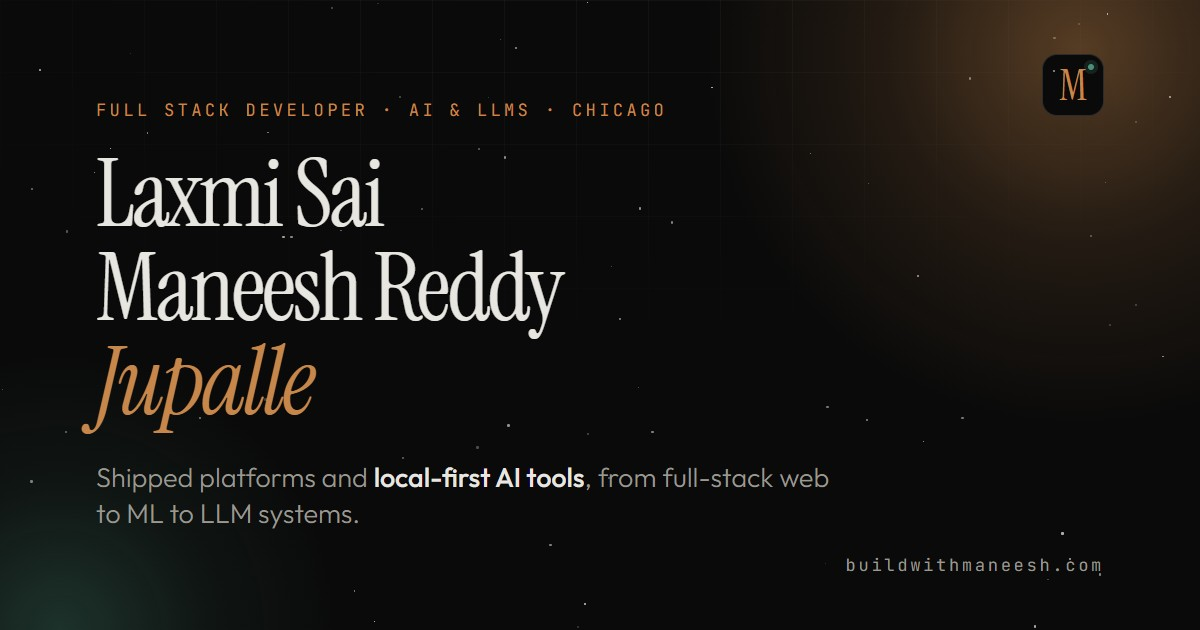
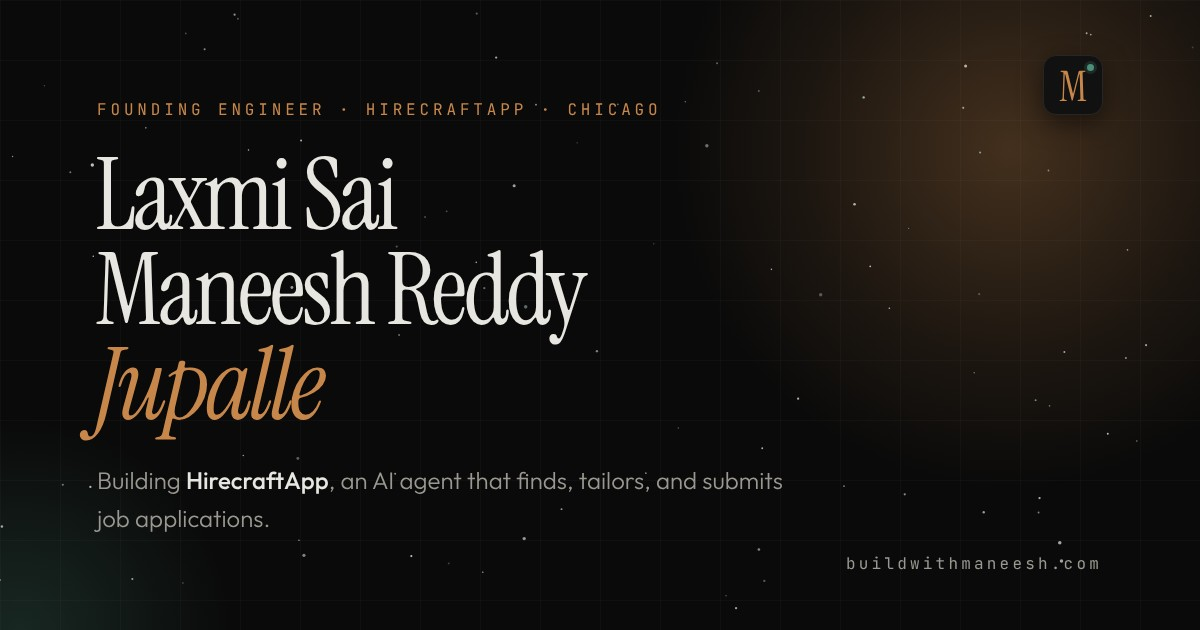
Add HirecraftApp and update bio for founding engineer role
The site still pitched me as a full stack developer open to full-time
roles. I now build HirecraftApp as its founding engineer, so the hero,
about, experience, contact, and share metadata say that instead.

- Experience: new HirecraftApp entry at the top of the timeline, with
  bullets drawn from what the product does on hirecraftapp.com.
- Hero: status pill and intro lead with HirecraftApp; a "Founding
  engineer" credential replaces vExpert, which stays under Recognition.
- About: rewritten around HirecraftApp, then UIC and VMware; adds a
  "Building" fact.
- Skills: "Agents and automation" row linking HirecraftApp, ProofPilot,
  and Sentinel MCP.
- Contact, command palette, mobile nav count, JSON-LD jobTitle and
  worksFor, title and og/twitter tags all updated.
- Re-render og-image.jpg in the same layout with the new title, and
  version its URL so link previews refetch it.
- UIC GenAI bullets move to past tense now that the role has ended.

Claude-Session: https://claude.ai/code/session_012bZnZHevDHwq4bZLdTsvEc

diff --git a/index.html b/index.html
@@ -3,22 +3,22 @@
 <head>
   <meta charset="UTF-8" />
   <meta name="viewport" content="width=device-width, initial-scale=1" />
-  <title>Laxmi Sai Maneesh Reddy Jupalle – Full Stack Developer</title>
-  <meta name="description" content="Full Stack Developer building web products, ML systems, and LLM pipelines. MS CS Graduate · UIC · Ex-VMware · Chicago." />
+  <title>Laxmi Sai Maneesh Reddy Jupalle – Founding Engineer at HirecraftApp</title>
+  <meta name="description" content="Founding engineer at HirecraftApp, an AI agent that finds, tailors, and submits job applications. Full stack across web products, ML systems, and LLM pipelines. MS CS · UIC · Ex-VMware · Chicago." />
   <link rel="canonical" href="https://buildwithmaneesh.com/" />
   <meta property="og:type" content="website" />
   <meta property="og:url" content="https://buildwithmaneesh.com/" />
   <meta property="og:site_name" content="buildwithmaneesh.com" />
-  <meta property="og:title" content="Laxmi Sai Maneesh Reddy Jupalle – Full Stack Developer" />
-  <meta property="og:description" content="Full Stack Developer building web products, ML systems, and LLM pipelines. MS CS · UIC · Ex-VMware · Chicago." />
-  <meta property="og:image" content="https://buildwithmaneesh.com/assets/og-image.jpg" />
+  <meta property="og:title" content="Laxmi Sai Maneesh Reddy Jupalle – Founding Engineer at HirecraftApp" />
+  <meta property="og:description" content="Founding engineer at HirecraftApp, an AI agent that finds, tailors, and submits job applications. MS CS · UIC · Ex-VMware · Chicago." />
+  <meta property="og:image" content="https://buildwithmaneesh.com/assets/og-image.jpg?v=2" />
   <meta property="og:image:width" content="1200" />
   <meta property="og:image:height" content="630" />
-  <meta property="og:image:alt" content="Laxmi Sai Maneesh Reddy Jupalle. Full Stack Developer, AI and LLMs, Chicago." />
+  <meta property="og:image:alt" content="Laxmi Sai Maneesh Reddy Jupalle. Founding Engineer at HirecraftApp, AI and LLMs, Chicago." />
   <meta name="twitter:card" content="summary_large_image" />
-  <meta name="twitter:title" content="Laxmi Sai Maneesh Reddy Jupalle – Full Stack Developer" />
-  <meta name="twitter:description" content="Full Stack Developer building web products, ML systems, and LLM pipelines. MS CS · UIC · Ex-VMware · Chicago." />
-  <meta name="twitter:image" content="https://buildwithmaneesh.com/assets/og-image.jpg" />
+  <meta name="twitter:title" content="Laxmi Sai Maneesh Reddy Jupalle – Founding Engineer at HirecraftApp" />
+  <meta name="twitter:description" content="Founding engineer at HirecraftApp, an AI agent that finds, tailors, and submits job applications. MS CS · UIC · Ex-VMware · Chicago." />
+  <meta name="twitter:image" content="https://buildwithmaneesh.com/assets/og-image.jpg?v=2" />
   <meta name="theme-color" content="#0a0a0a" />
 
   <link rel="icon" href="favicon.svg" type="image/svg+xml" />
@@ -124,7 +124,7 @@
     }
 
     html { scroll-behavior: smooth; }
-    section[id], #publications, #awards { scroll-margin-top: 5rem; }
+    section[id], #publications, #awards, .xp[id] { scroll-margin-top: 5rem; }
 
     body {
       background: var(--ink);
@@ -274,6 +274,8 @@
       font-size: 0.8125rem; color: var(--dim);
     }
     .status strong { color: var(--text); font-weight: 500; }
+    .status-link { color: var(--copper-light); text-decoration: underline; text-decoration-color: rgba(200, 135, 74, 0.4); text-underline-offset: 3px; transition: text-decoration-color 0.2s ease; }
+    .status-link:hover { text-decoration-color: var(--copper-light); }
     .status-dot { position: relative; width: 8px; height: 8px; border-radius: 50%; background: var(--sage-light); flex-shrink: 0; }
     .status-dot::after {
       content: ''; position: absolute; inset: -4px; border-radius: 50%;
@@ -382,6 +384,8 @@
 
     /* About */
     .about-body { font-size: clamp(1.0625rem, 1.3vw, 1.1875rem); line-height: 1.75; color: var(--text); max-width: 40rem; font-weight: 300; }
+    .about-link { color: var(--copper-light); text-decoration: underline; text-decoration-color: rgba(200, 135, 74, 0.4); text-underline-offset: 4px; transition: text-decoration-color 0.2s ease; }
+    .about-link:hover { text-decoration-color: var(--copper-light); }
     .facts { margin-top: 2.25rem; max-width: 40rem; }
     .fact { display: grid; grid-template-columns: 7.5rem 1fr; gap: 1rem; padding: 0.95rem 0; border-top: 1px solid var(--line); }
     .fact:last-child { border-bottom: 1px solid var(--line); }
@@ -410,6 +414,7 @@
     .xp-role-sub { margin-top: 0.15rem; font-size: 0.8125rem; color: var(--dim); }
     .xp-tag { font-size: 0.75rem; color: var(--dim); border: 1px solid var(--line); border-radius: 999px; padding: 0.25rem 0.7rem; white-space: nowrap; }
     .xp-points { margin-top: 1.1rem; display: grid; gap: 0.6rem; max-width: 46rem; }
+    .xp-links { display: flex; flex-wrap: wrap; gap: 0.5rem; margin-top: 1.25rem; }
     .xp-points li, .proj-bullets li { position: relative; padding-left: 1.25rem; color: var(--dim); line-height: 1.65; }
     .xp-points li { font-size: 0.9375rem; }
     .xp-points li::before, .proj-bullets li::before {
@@ -734,7 +739,8 @@
     "alternateName": "Maneesh Jupalle",
     "url": "https://buildwithmaneesh.com/",
     "image": "https://buildwithmaneesh.com/assets/og-image.jpg",
-    "jobTitle": "Full Stack Developer",
+    "jobTitle": "Founding Engineer",
+    "worksFor": { "@type": "Organization", "name": "HirecraftApp", "url": "https://hirecraftapp.com/" },
     "email": "mailto:maneeshreddy28@gmail.com",
     "address": { "@type": "PostalAddress", "addressLocality": "Chicago", "addressRegion": "IL", "addressCountry": "US" },
     "alumniOf": [
@@ -796,7 +802,7 @@
     <div id="mobileNav" class="mobile-nav lg:hidden hidden">
       <nav aria-label="Sections">
         <a href="#about" class="m-link">About <span>Who I am</span></a>
-        <a href="#experience" class="m-link">Work <span>3 roles</span></a>
+        <a href="#experience" class="m-link">Work <span>4 roles</span></a>
         <a href="#projects" class="m-link">Projects <span>17 builds</span></a>
         <a href="#skills" class="m-link">Skills <span>With proof</span></a>
         <a href="#education" class="m-link">Background <span>Degrees, awards</span></a>
@@ -818,14 +824,14 @@
     <div class="hero-inner max-w-6xl mx-auto px-5 sm:px-8 w-full pt-28 pb-12 lg:pt-32">
       <div class="grid lg:grid-cols-12 gap-12 lg:gap-10 items-center">
         <div class="lg:col-span-7">
-          <p class="status hero-meta"><span class="status-dot" aria-hidden="true"></span><span><strong>Open to full-time roles</strong>, based in Chicago</span></p>
+          <p class="status hero-meta"><span class="status-dot" aria-hidden="true"></span><span><strong>Founding engineer at <a href="https://hirecraftapp.com" target="_blank" rel="noopener" class="status-link">HirecraftApp</a></strong><span class="hidden sm:inline">, based in Chicago</span></span></p>
           <h1 class="hero-name mt-7">
             <span class="hero-word"><span class="hero-word-inner">Laxmi Sai</span></span>
             <span class="hero-word"><span class="hero-word-inner">Maneesh Reddy</span></span>
             <span class="hero-word"><span class="hero-word-inner"><em>Jupalle</em></span></span>
           </h1>
           <p class="hero-intro hero-meta mt-7">
-            Full stack developer. I build <strong>web products</strong>, <strong>machine learning systems</strong>, and <strong>LLM tooling</strong>, from a campus platform for UIC students to AI that runs entirely on your own machine.
+            Founding engineer building <strong>HirecraftApp</strong>, an AI agent that finds, tailors, and submits job applications. I work across <strong>web products</strong>, <strong>machine learning systems</strong>, and <strong>LLM tooling</strong>, from a campus platform for UIC students to AI that runs entirely on your own machine.
           </p>
           <div class="hero-meta mt-9 flex flex-wrap gap-3">
             <a href="#projects" class="btn btn-primary">See my work</a>
@@ -847,10 +853,10 @@
         </div>
       </div>
       <dl class="creds hero-meta mt-16 lg:mt-20">
+        <div class="cred"><dt class="sr-only">Now</dt><dd><p class="cred-value">Founding engineer</p><p class="cred-label">HirecraftApp, 2026 to present</p></dd></div>
         <div class="cred"><dt class="sr-only">Degree</dt><dd><p class="cred-value">MS CS, 3.80</p><p class="cred-label">University of Illinois Chicago, 2026</p></dd></div>
         <div class="cred"><dt class="sr-only">Industry</dt><dd><p class="cred-value">2 years</p><p class="cred-label">Software engineer at VMware by Broadcom</p></dd></div>
         <div class="cred"><dt class="sr-only">Hackathon</dt><dd><p class="cred-value">1st place</p><p class="cred-label">Hack with Chicago, sponsored by Microsoft</p></dd></div>
-        <div class="cred"><dt class="sr-only">Recognition</dt><dd><p class="cred-value">vExpert</p><p class="cred-label">VMware community award, 2023</p></dd></div>
       </dl>
     </div>
   </section>
@@ -863,12 +869,14 @@
           <h2 class="section-title" data-split>Reliable products, with real depth behind the interface.</h2>
         </div>
         <div class="lg:col-span-7">
-          <p class="about-body reveal-up">I graduated with an MS in Computer Science from the University of Illinois Chicago, with coursework in AI, ML, data science, generative AI, and systems. Before that I spent two years at VMware by Broadcom solving integration issues at enterprise scale and tightening the loop between developers and testers.</p>
-          <p class="about-body reveal-up mt-5 text-ink-dim">Now I'm looking for a full-time role where I can build reliable, user-centred products with web and AI/LLM technology: interfaces that feel fast and accessible, backed by data and models that hold up.</p>
+          <p class="about-body reveal-up">I founded <a href="https://hirecraftapp.com" target="_blank" rel="noopener" class="about-link">HirecraftApp</a> and build it as its founding engineer. It is a job-application agent: it watches company career pages, scores each new role against your profile, tailors your résumé without inventing anything, and submits the real application, keeping a receipt for every one. The work runs from job-board ingestion and browser automation to the LLM pipeline and the product people use every day.</p>
+          <p class="about-body reveal-up mt-5">Before that I earned an MS in Computer Science from the University of Illinois Chicago, where I built a RAG-based clinical AI system on the GenAI team, and spent two years at VMware by Broadcom solving integration issues at enterprise scale and tightening the loop between developers and testers.</p>
+          <p class="about-body reveal-up mt-5 text-ink-dim">What I care about hasn't changed: reliable, user-centred products built with web and AI/LLM technology. Interfaces that feel fast and accessible, backed by data and models that hold up.</p>
           <dl class="facts reveal-up">
+            <div class="fact"><dt>Building</dt><dd>HirecraftApp, founding engineer</dd></div>
             <div class="fact"><dt>Studied</dt><dd>MS Computer Science, UIC, graduated May 2026</dd></div>
             <div class="fact"><dt>Worked</dt><dd>VMware by Broadcom, UIC GenAI team</dd></div>
-            <div class="fact"><dt>Focus</dt><dd>Full-stack web, machine learning, LLM systems</dd></div>
+            <div class="fact"><dt>Focus</dt><dd>AI agents, full-stack web, LLM systems</dd></div>
             <div class="fact"><dt>Based</dt><dd>Chicago, IL</dd></div>
           </dl>
         </div>
@@ -881,11 +889,38 @@
     <div class="max-w-6xl mx-auto px-5 sm:px-8">
       <div class="section-head section-head--split">
         <h2 class="section-title" data-split>Where I've worked</h2>
-        <p class="section-lead">From enterprise device management to clinical AI: shipping inside real constraints like scale, compliance, and uptime.</p>
+        <p class="section-lead">From enterprise device management to clinical AI to a company of my own: shipping inside real constraints like scale, compliance, and uptime.</p>
       </div>
       <div class="xp-list">
         <div class="xp-rail" aria-hidden="true"></div>
         <div class="xp-fill" id="timelineFill" aria-hidden="true"></div>
+
+        <article class="xp" id="xp-hirecraftapp">
+          <span class="xp-dot" aria-hidden="true"></span>
+          <div class="xp-grid">
+            <p class="xp-when"><b>2026 – Present</b>Chicago, IL</p>
+            <div>
+              <div class="xp-head">
+                <div>
+                  <h3 class="xp-org">HirecraftApp</h3>
+                  <p class="xp-role">Founding Engineer</p>
+                  <p class="xp-role-sub">An AI agent that finds, tailors, and submits job applications</p>
+                </div>
+                <span class="xp-tag">Startup, AI agents</span>
+              </div>
+              <ul class="xp-points">
+                <li>Founded and built HirecraftApp, a job-application agent that watches company career pages, scores new roles against a candidate's profile, tailors the résumé for each posting, and submits the real application on the company's own site.</li>
+                <li>Built the ingestion layer that reads 548 companies' career boards on Greenhouse, Ashby, Gem, Breezy, and Pinpoint every 15 minutes from their public JSON feeds, so new roles surface within minutes of posting.</li>
+                <li>Engineered a browser-based application engine that fills forms, uploads a résumé PDF rebuilt per posting, handles emailed verification codes, and saves a receipt for every submission: the confirmation page, URL, exact fields sent, and the uploaded file.</li>
+                <li>Scoped the LLM to four jobs (résumé parsing, posting scoring, bullet rewrites, screener drafts) with guardrails in code: rewrites that add or remove numbers are blocked, legally sensitive answers come only from the profile, and no model ever presses submit.</li>
+                <li>Designed the human-in-the-loop flow: review each application or run autopilot within away hours and a nightly cap, with unanswered screener questions routed to the user on Telegram or WhatsApp instead of guessed.</li>
+              </ul>
+              <div class="xp-links">
+                <a href="https://hirecraftapp.com" target="_blank" rel="noopener" class="proj-link">Visit hirecraftapp.com</a>
+              </div>
+            </div>
+          </div>
+        </article>
 
         <article class="xp">
           <span class="xp-dot" aria-hidden="true"></span>
@@ -900,8 +935,8 @@
                 <span class="xp-tag">GenAI, healthcare</span>
               </div>
               <ul class="xp-points">
-                <li>Architecting an end-to-end RAG-based clinical AI system using Python, Azure AI Foundry, and open-source LLMs (LLaMA, Mistral) with vector-database retrieval to automate medical justification reports for assistive technology equipment.</li>
-                <li>Developing secure, HIPAA-compliant data workflows to process, anonymize, and validate patient records from protected file servers, grounding AI-generated clinical documentation in verified inventory and patient datasets.</li>
+                <li>Architected an end-to-end RAG-based clinical AI system using Python, Azure AI Foundry, and open-source LLMs (LLaMA, Mistral) with vector-database retrieval to automate medical justification reports for assistive technology equipment.</li>
+                <li>Developed secure, HIPAA-compliant data workflows to process, anonymize, and validate patient records from protected file servers, grounding AI-generated clinical documentation in verified inventory and patient datasets.</li>
               </ul>
             </div>
           </div>
@@ -1606,6 +1641,14 @@
               </div>
             </div>
             <div class="skill-proof-row">
+              <div class="skill-proof-label">Agents and automation</div>
+              <div class="skill-proof-links">
+                <a href="#xp-hirecraftapp" class="skill-proof-link">HirecraftApp</a>
+                <a href="#p-proofpilot" class="skill-proof-link">ProofPilot</a>
+                <a href="#p-sentinel-mcp" class="skill-proof-link">Sentinel MCP</a>
+              </div>
+            </div>
+            <div class="skill-proof-row">
               <div class="skill-proof-label">Cloud and DevOps</div>
               <div class="skill-proof-links">
                 <a href="#experience" class="skill-proof-link">Azure AI Foundry at UIC</a>
@@ -1700,7 +1743,7 @@
         <div class="grid lg:grid-cols-12 gap-12 lg:gap-16 items-end">
           <div class="lg:col-span-7">
             <h2 class="section-title" data-split>Let's build something useful.</h2>
-            <p class="section-lead mt-5">I'm looking for full-time roles and I'm open to collaborations. A short note is enough.</p>
+            <p class="section-lead mt-5">I'm building HirecraftApp and always open to collaborations, feedback, and good conversations. A short note is enough.</p>
             <div class="contact-email-row">
               <a href="mailto:maneeshreddy28@gmail.com?subject=Hi%20Maneesh" class="contact-email">maneeshreddy28@gmail.com</a>
             </div>
@@ -1715,6 +1758,7 @@
           </div>
           <dl class="contact-list lg:col-span-5">
             <div class="contact-item"><dt>Phone</dt><dd><a href="tel:+18723577484">(872) 357-7484</a></dd></div>
+            <div class="contact-item"><dt>Building</dt><dd><a href="https://hirecraftapp.com" target="_blank" rel="noopener">hirecraftapp.com</a></dd></div>
             <div class="contact-item"><dt>Location</dt><dd>Chicago, IL<small id="localTime">Central Time</small></dd></div>
             <div class="contact-item"><dt>LinkedIn</dt><dd><a href="https://www.linkedin.com/in/maneeshjupalle/" target="_blank" rel="noopener">in/maneeshjupalle</a></dd></div>
             <div class="contact-item"><dt>GitHub</dt><dd><a href="https://github.com/ManeeshJupalle" target="_blank" rel="noopener">@ManeeshJupalle</a></dd></div>
@@ -2642,7 +2686,7 @@
 
       const items = [
         { group: 'Sections', icon: 'section', title: 'About', sub: 'Who I am and what I focus on', run: go('#about') },
-        { group: 'Sections', icon: 'section', title: 'Work experience', sub: 'UIC GenAI team, VMware by Broadcom, Ifortis', keys: 'jobs career', run: go('#experience') },
+        { group: 'Sections', icon: 'section', title: 'Work experience', sub: 'HirecraftApp, UIC GenAI team, VMware by Broadcom, Ifortis', keys: 'jobs career hirecraft founding startup', run: go('#experience') },
         { group: 'Sections', icon: 'section', title: 'Projects', sub: 'All seventeen builds', run: go('#projects') },
         { group: 'Sections', icon: 'section', title: 'Skills', sub: 'Languages, frameworks, and proof', keys: 'stack tech', run: go('#skills') },
         { group: 'Sections', icon: 'section', title: 'Education and recognition', sub: 'Degrees, publication, awards', keys: 'background degree paper', run: go('#education') },
@@ -2666,6 +2710,7 @@
         { group: 'Actions', icon: 'copy', title: 'Copy email address', sub: email, keys: 'mail', run: async () => showToast(await copyText(email) ? 'Email address copied' : 'Copy failed. The address is ' + email) },
         { group: 'Actions', icon: 'mail', title: 'Send an email', sub: 'Opens your mail app', keys: 'contact mail', run: () => { location.href = `mailto:${email}?subject=Hi%20Maneesh`; } },
         { group: 'Actions', icon: 'file', title: 'Download résumé', sub: 'PDF', keys: 'resume cv pdf', run: () => { const a = document.createElement('a'); a.href = 'Laxmi_Jupalle_Resume.pdf'; a.download = ''; a.click(); showToast('Résumé download started'); } },
+        { group: 'Actions', icon: 'link', title: 'Open HirecraftApp', sub: 'hirecraftapp.com', keys: 'hirecraft startup company founding agent', run: openUrl('https://hirecraftapp.com') },
         { group: 'Actions', icon: 'link', title: 'Open GitHub profile', sub: 'github.com/ManeeshJupalle', keys: 'code repos', run: openUrl('https://github.com/ManeeshJupalle') },
         { group: 'Actions', icon: 'link', title: 'Open LinkedIn profile', sub: 'linkedin.com/in/maneeshjupalle', run: openUrl('https://www.linkedin.com/in/maneeshjupalle/') },
       );
